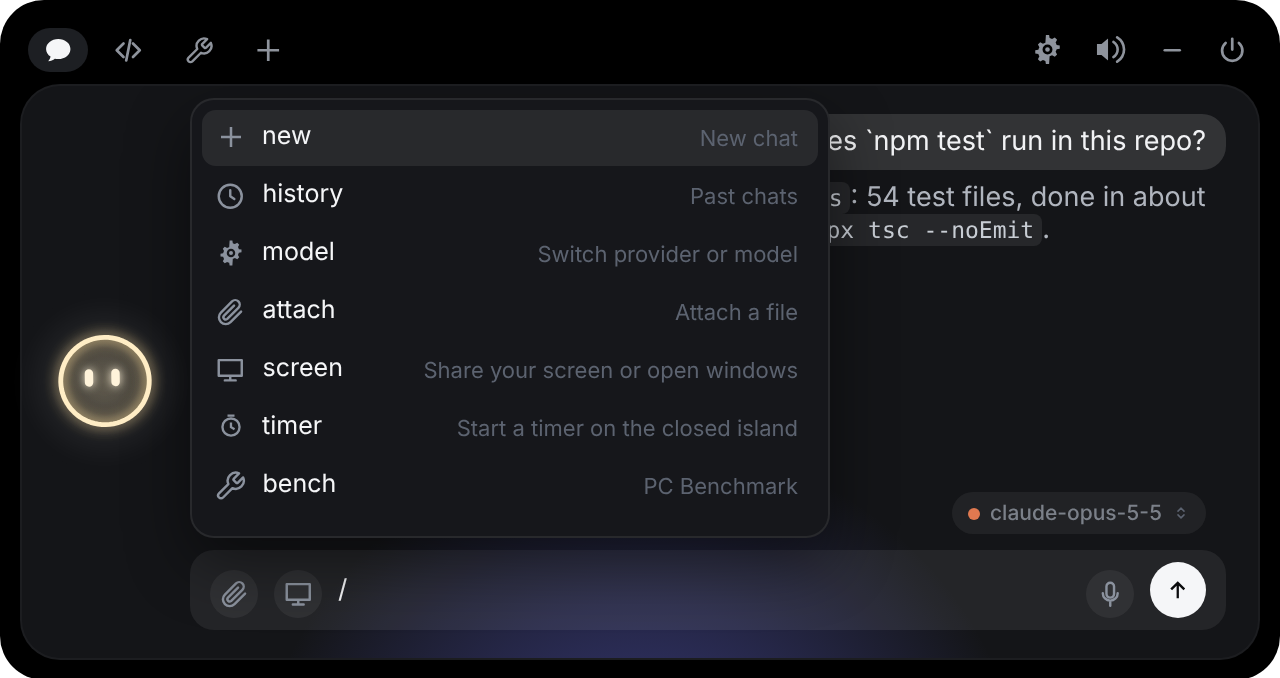
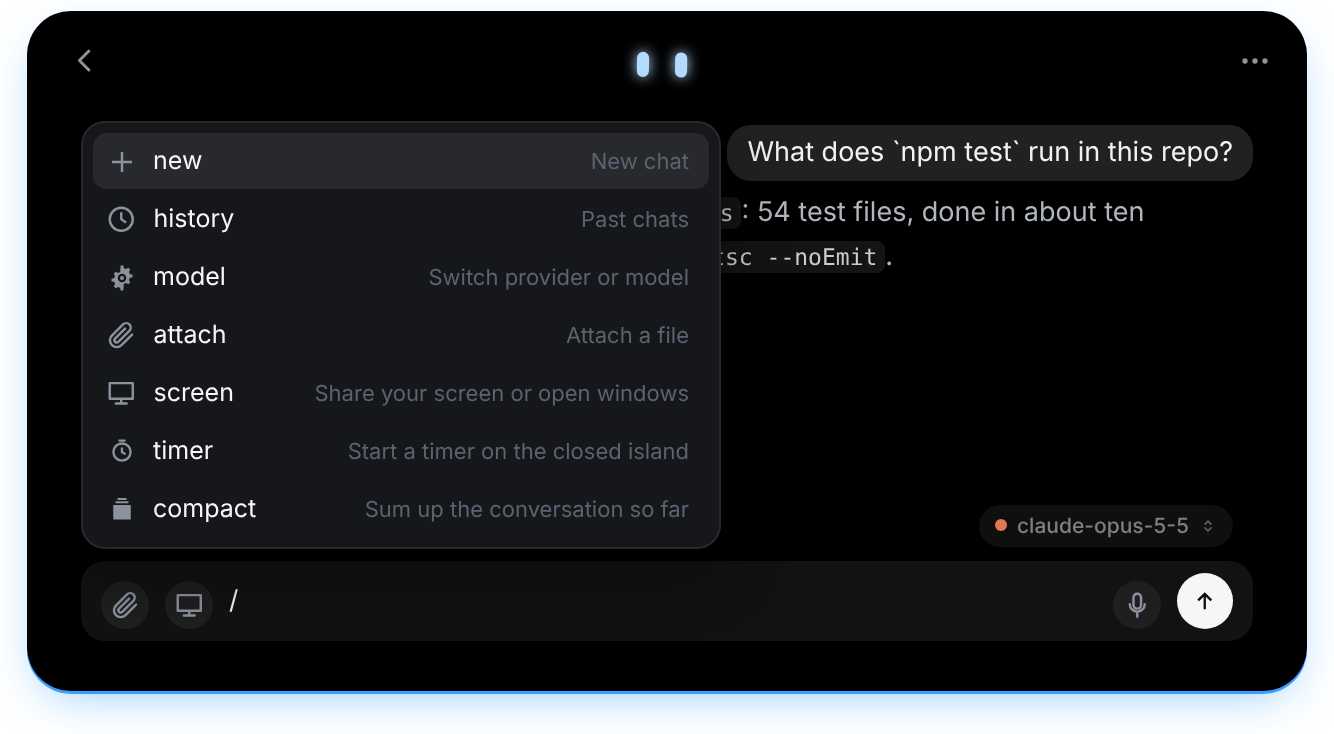
README: the new look's screenshots and features (#151)
* README: the new look's screenshots, features and wording

Claude-Session: https://claude.ai/code/session_01MzT8SPiTDFpQftTYQss36t

* README: the local models' web search (Bing, Bing News, Unsloth Studio)

Claude-Session: https://claude.ai/code/session_01MzT8SPiTDFpQftTYQss36t

---------

diff --git a/README.md b/README.md
@@ -6,14 +6,16 @@
 
 **A tiny friend that lives at the top of your screen on Windows and keeps an eye on your AI coding agent sessions.**
 
-Approve permissions, watch your agents work, drop a file, chat with Claude, Codex or Gemini, give your agents tools of your own, keep an eye on your timers, music, calendar and email — all without leaving what you're doing.
+Approve permissions, watch your agents work, drop a file, chat with Claude, Codex, Gemini or a local model, give your agents tools of your own, keep an eye on your timers, music, calendar and email — all without leaving what you're doing.
 
 [![Version](https://img.shields.io/github/v/release/Rccrd12/Lumo?filter=windows-v*&label=version&color=0A84FF)](https://github.com/Rccrd12/Lumo/releases)
 ![Windows 10/11](https://img.shields.io/badge/Windows-10%2F11-0078D4?logo=windows&logoColor=white)
 ![Tauri 2](https://img.shields.io/badge/Tauri-2-FFC131?logo=tauri&logoColor=black)
 ![Code: MIT](https://img.shields.io/badge/code-MIT-green)
 
-<img src="windows/screenshots/greeting.png" width="640" alt="Lumo lighting up at launch">
+<img src="windows/screenshots/home.png" width="760" alt="Lumo's home: a permission waiting with N and Y, two sessions at work, a timer, the music, the next meeting and the newest email as tiles, the services and the field to the chat">
+
+<img src="windows/screenshots/closed.png" width="326" alt="The closed island: Lumo's eyes, Codex writing main.py and a timer">
 
 </div>
 
@@ -21,74 +23,86 @@ Approve permissions, watch your agents work, drop a file, chat with Claude, Code
 
 The full documentation of the app is in [`windows/README.md`](windows/README.md).
 
-Meet **Lumo**: a small ring of light that peeks out of the top edge of your screen, lights up to say hello, follows your cursor with its eyes, gets annoyed when you poke it, and tells you the moment Claude Code needs you.
+Meet **Lumo**: two bright eyes at the top of your screen. The island they live in peeks out of the edge when you need it, its light running along the border in the colour of what is going on, and it tells you the moment Claude Code needs you. Open it and everything is on one home: what waits for you, the sessions at work, your timers, music, calendar and email, and the field to the chat.
+
+> Lumo 0.18 brought a new look. The one before it, with the ring of light and the tabs, is still there: **Settings → Island → Previous look**.
 
 ## Features
 
-- 🤖 **Claude Code, Codex, Copilot CLI, Muse Code, Antigravity (IDE and CLI), Cursor, OpenCode, Amp, Hermes, Claude Desktop and other agents, live** — see every session in the island: what it reads, edits and runs, step by step. Tag a hook payload with `lumo_agent` to give any agent its own pill (see [`docs/AGENTS.md`](docs/AGENTS.md)). Finished? Lumo does a happy little jump.
-- See what Claude is editing, live: each file modification shows the file name and +N −M counts in the ticker, click it to read the full diff.
-- ✅ **Approve and answer from the island** — permission requests show up with **Allow / Deny** for Claude Code (from any terminal), Codex, Copilot CLI and Muse Code, plus **Allow for this session** to let the same command, file or URL through until that session ends; `AskUserQuestion` prompts show the choices right in the island. Nothing is ever allowed without your click.
-- 🧑💻 **Open terminal** — brings the window a session runs in to the front.
-- 💬 **Chat with Claude, Google AI (Gemini), OpenAI, OpenRouter, or a local model (Ollama, LM Studio, any OpenAI-compatible server)** — click the model name above the chat box to switch provider and model. Cloud providers use your own API key. For Ollama and LM Studio, Settings shows the model in memory, frees it with one click and downloads new ones.
-- 🧠 **Chat with your Claude plan or your ChatGPT account** — pick **Claude Code** or **Codex** above the chat box and the island talks to the CLI you already use, no API key. An action comes up as an Allow / Deny card exactly when the CLI would ask for it, and **the shield** says how much it may do on its own (Ask every time, Auto, Plan only). Antigravity CLI works the same way.
-- 🛠 **Your own tools** — the **Tools** tab lists small programs Lumo and its agents can use for you: a benchmark of your PC, a report from your app, anything you have a script for. **Add a tool** opens the **tool workshop**, a chat where Lumo writes the tool with you (or brings in a script you already have), shows its files and parameters, tries it on your PC and saves it. Claude Code, the island chat and the API providers get them, and a button adds them to Claude Code in the terminal.
-- 🛡 **Lumo's supervisor** — every saved or changed tool is read by a second model, which says in plain words what it really does and whether it looks safe, needs reading first or is dangerous (a dangerous tool is turned off). What a tool declared it needs is enforced: no internet, no files outside its folder, no programs unless it said so. Each call shows its card first.
-- ⌨ **Commands in the chat** — type `/` and a menu opens: `/new`, `/history`, `/model`, `/effort`, `/attach`, `/screen`, `/permissions`, `/timer`, Claude Code's own commands (`/compact`, `/context`, your skills), Antigravity CLI's (`/compact`, `/usage`, `/credits`, `/skills`) and **your tools**, each with its own command: `/pdfcraft merge these two PDFs` tells the AI to use that tool. Only what works with the chosen provider is listed, and Claude Code commands that do nothing outside a terminal are left out. `/context` answers with a small card: how full the context is, what fills it, and the details folded away.
-- 📂 **Chat files** — each chat keeps the files that went with it: what you attached and what Claude Code or Antigravity CLI read, edited or created, to open again with a click.
-- 🗺 **The Plan island** — when an agent (in a terminal or in the island chat) works through a plan, a panel beside the island follows it step by step, with a progress ring; finished plans are kept to look back at.
-- 🎙 **Talk with Gemini Live** — the microphone in the chat box or `Ctrl+Alt+L`: a spoken call with Gemini 3.8 Live (or Extended Thinking) that looks at your screen when it needs to, reads your files and PDFs, opens files and apps, and asks Claude Code or Antigravity CLI for anything else. Uses your Google AI key.
-- ⏱ **Live activities** — the closed island says what's going on: what the AI is doing, your timers, the song playing, the next meeting, a new email; several side by side, centred, with their controls right there. Open the island and a second panel beside it holds **Timer**, **Music**, **Calendar** and **Email**; fold it with **–**, drag it off the island to keep it anywhere (Windows), resize it. Any model in the chat or Gemini Live can set a timer.
-- ✉ **Email** — the Email pill reads your inbox over IMAP (Gmail, Outlook, iCloud, any server, with an app password), read only: a new email peeks out of the closed island within seconds, with **Summarize** and **Draft a reply**. Nothing is moved or marked as read, and with **Settings → General → Security → Email** the AI can also send, answer and forward emails, or manage them (read, star, move, archive, trash), each one only after you click on its card.
-- 🖥 **The chat knows what's open on your PC** — the windows and documents you have open (a PDF, a Word file, a spreadsheet…) go with your question, so "what's this PDF about?" just works. Settings → General → Security turns it off.
-- ➗ **Math in answers** — formulas in LaTeX (`$…$`, `$$…$$`, `\(…\)`, `\[…\]`) are drawn as math: fractions, roots, matrices, sums, vectors.
-- 🖼 **Show the chat your screen** — your open windows or a screenshot, only when you ask; `Ctrl+Alt+P` asks about the screen, `Ctrl+Alt+X` about the selected text, from any app.
-- 📊 **Plan usage** — small pills in the island's header show your 5-hour and weekly Claude plan limits, your Codex limits and your Antigravity CLI quotas. Off by default; Settings → Agents → Plan usage.
-- 📋 **Declare the tools you use** — Settings → Pills & integrations: pick your main tool (VS Code, Cursor, Codex or Antigravity), then up to 4 more agents, chat providers and services.
-- 📎 **Drop a file on the island** — Lumo turns into a box and swallows it, then answers questions about it.
-- 🧲 **An island that docks anywhere** — drag it to the top, bottom, left or right edge, resize it, zoom it.
-- 🔌 **Integrations** — Email (IMAP), Stripe payments, n8n workflows, GitHub (open PRs, reviews requested, CI status, contributions), Vercel deployments, Resend emails, Notion, Cal.com. Each one gets its own little colored Lumo.
-- 👗 **Dress Lumo up** — right-click him for the wardrobe, and pick his look there: a ring of light, a dot, a soft drop or a firefly. He also dresses up for the seasons on his own.
-- ⌨ **Keyboard shortcuts** — open the chat, jump to an alert or a terminal, switch pills, mute or open the wardrobe from anywhere; all customizable in Settings → Shortcuts.
-- 🎭 **A real character** — idle breathing, blinks, eyes on a sphere that follow your mouse, emotes, handcrafted sounds, a greeting on launch.
-- 🫥 **Invisible when idle** — hides away when nothing is running, peeks out when you hover the top edge of the screen.
-- 📅 **Weekly recap** — every Monday Lumo sums up the past week: time coding, sessions, files, lines changed, commands, permissions, top agent and project. Share it as a 1080 × 1920 image with Lumo — project names optional. All local.
-- 🌍 **11 languages** — English, 中文, हिन्दी, Español, العربية, Français, বাংলা, Português, Русский, Bahasa Indonesia, Italiano. Pick one in Settings → General → Language.
-- 🔄 **Updates inside the app** — Lumo says when a newer version is out; **Update now** in Settings downloads it, installs it without any window and opens the new Lumo by itself. The changelog of every version is right there.
-- 🔒 **Private by design** — no telemetry, no account. Keys live in Windows Credential Manager. The app only talks to the services you plug in.
+### Your agents
 
-<p align="center">
-<img src="windows/screenshots/tools.png" width="640" alt="The Tools tab: your own tools, each with its switch, and Add tool">
-</p>
+- 🤖 **Claude Code, Codex, Copilot CLI, Muse Code, Antigravity (IDE and CLI), Cursor, OpenCode, Amp, Hermes, Claude Desktop and other agents, live** — every session on the home: what it reads, edits and runs, step by step, and a green **Done** when it finishes. Tag a hook payload with `lumo_agent` to give any agent its own pill (see [`docs/AGENTS.md`](docs/AGENTS.md)). Each file edit shows its name and +N −M counts; a click opens the full diff.
+- ✅ **Approve and answer from the island** — permission requests come up with two big buttons, **Deny** and **Allow** (or `N` and `Y`), for Claude Code (from any terminal), Codex, Copilot CLI and Muse Code, with **Allow for this session** underneath to let the same command, file or URL through until that session ends. `AskUserQuestion` prompts show the choices right in the island. Nothing is ever allowed without your click.
+- 🗺 **Plans you can read before they start** — when an agent asks to start a plan, its steps show as a numbered list, with **Keep planning** and **Approve the plan** (or write what to change). Once it runs, the **Plan island** follows it step by step with a progress ring, for every provider; finished plans are kept to look back at.
+- 🧑💻 **Open terminal** — brings the window a session runs in to the front.
+- 📊 **Plan usage** — your 5-hour and weekly Claude plan limits, your Codex limits and your Antigravity CLI quotas, as pills on the home and as bars in the chat with when each resets. Off by default; Settings → Agents → Plan usage.
 
 <table>
 <tr>
-<td><img src="windows/screenshots/workshop.png" alt="The tool workshop: a chat where Lumo writes the tool, with its draft, parameters and files beside it, Try and Save tool"></td>
-<td><img src="windows/screenshots/supervisor.png" alt="Lumo's supervisor saying in plain words what a tool does, marked Looks safe"></td>
-</tr>
-<tr>
-<td><img src="windows/screenshots/commands.png" alt="The / menu in the chat: Lumo's commands and a tool of your own"></td>
-<td align="center"><img src="windows/screenshots/plan.png" width="240" alt="The Plan island following Claude Code's plan step by step"></td>
+<td width="50%"><img src="windows/screenshots/approval.png" alt="A Claude Code permission request: Bash npm test, with Deny and Allow as two big buttons and Allow for this session under them"></td>
+<td width="50%"><img src="windows/screenshots/plan-ask.png" alt="Claude Code asking to start a four-step plan in the chat, with Keep planning and Approve the plan"></td>
 </tr>
 </table>
 
-<p align="center">
-<img src="windows/screenshots/activities.png" width="640" alt="The open island with the live activities beside it: a timer, the music playing, the next events and the newest emails">
-</p>
+### The chat
 
-<p align="center">
-<img src="windows/screenshots/compact-activities.png" width="480" alt="The closed island: the next meeting, a timer and the music playing, side by side">
-<br>
-<img src="windows/screenshots/mail.png" width="468" alt="A new email peeking out of the closed island, with Summarize and Draft a reply">
-</p>
+- 💬 **Chat with Claude, Google AI (Gemini), OpenAI, OpenRouter, or a local model (Ollama, LM Studio, Unsloth Studio, any OpenAI-compatible server)** — one field, with **+** for the rest and past chats in the top bar; the model's name beside the field switches provider and model. Cloud providers use your own API key.
+- 🧠 **Chat with your Claude plan or your ChatGPT account** — pick **Claude Code** or **Codex** and the island talks to the CLI you already use, no API key. An action comes up as an Allow / Deny card exactly when the CLI would ask for it, and **the shield** says how much it may do on its own (Ask every time, Auto, Plan only). Antigravity CLI works the same way.
+- 🏠 **Local models that do real work** — tools, pictures, PDFs and reasoning by what the model can do, a web search that works (Bing with Bing News, no key; with Unsloth Studio, its own search when Lumo has its key), and a folder of copies for each chat: the model works on copies of your files, and a copy goes over the original only with your click. Settings shows the model in memory, frees it with one click and downloads new ones.
+- 🐙 **The chat reads your GitHub** — with the GitHub pill set up and Settings → General → Security → **GitHub** on Read only, every provider can read your pull requests with their checks and reviews, issues, repositories, commits and Actions runs. Off until you turn it on.
+- ⌨ **Commands in the chat** — type `/` and a menu opens: `/new`, `/history`, `/model`, `/effort`, `/attach`, `/screen`, `/permissions`, `/timer`, `/compact`, Claude Code's own commands (`/context`, your skills), Antigravity CLI's (`/usage`, `/credits`, `/skills`) and **your tools**, each with its own command. Only what works with the chosen provider is listed.
+- 📏 **The chat's usage as bars** — how full the context is after every answer, what fills it after `/context`, and each limit of your plan.
+- 🖼 **Share what's on your PC** — open windows, screens, browser tabs and folders as pills and tiles; nothing is captured until **Send to the chat**. `Ctrl+Alt+P` asks about the screen, `Ctrl+Alt+X` about the selected text, `Ctrl+Alt+B` about the page in the browser, from any app. The names of the windows and documents you have open go with your question, so "what's this PDF about?" just works (Settings → General → Security turns it off).
+- 📎 **Drop files on the island** — several at once, each with its bar; they fly up to Lumo in the top bar and join the chat.
+- 📂 **Chat files** — each chat keeps the files that went with it: what you attached and what Claude Code, Codex or Antigravity CLI read, edited or created, to open again with a click.
+- ➗ **Math in answers** — formulas in LaTeX (`$…$`, `$$…$$`, `\(…\)`, `\[…\]`) drawn as real math in Latin Modern Math, the face of LaTeX: fractions, roots, matrices, sums, vectors, over 500 symbols.
+- 🎙 **Talk with Gemini Live** — the microphone in the chat field or `Ctrl+Alt+L`: a spoken call with Gemini Live that looks at your screen when it needs to, reads your files and PDFs, opens files and apps, and asks Claude Code or Antigravity CLI for anything else. Uses your Google AI key.
+- 🖱 **Let Claude use the computer** — a glowing screen edge, Claude's own mouse, and every action approved by you.
 
 <table>
 <tr>
-<td><img src="windows/screenshots/approval.png" alt="A Claude Code permission request, with Deny, Allow for this session and Allow"></td>
-<td><img src="windows/screenshots/chat.png" alt="Chatting with Claude from the island"></td>
+<td width="50%"><img src="windows/screenshots/chat.png" alt="Chatting with Claude from the island: one field, the model's name beside it"></td>
+<td width="50%"><img src="windows/screenshots/commands.png" alt="The / menu in the chat: new, history, model, attach, screen, timer, compact"></td>
 </tr>
 <tr>
-<td><img src="windows/screenshots/overview.png" alt="The overview: the focused integration on the left, the other pills on the right"></td>
-<td><img src="windows/screenshots/drop.png" alt="Lumo turned into a box, waiting for a file"></td>
+<td width="50%"><img src="windows/screenshots/share.png" alt="Share with the chat: open windows, screens, tabs and folders as pills and tiles, with Send to the chat"></td>
+<td width="50%"><img src="windows/screenshots/drop.png" alt="The island ready for a file: Drop your files here, PDF, images, code, docs"></td>
+</tr>
+</table>
+
+### Tools, listening and your day
+
+- 🛠 **Your own tools** — small programs Lumo and its agents can use for you: a benchmark of your PC, a report from your app, anything you have a script for. **Add a tool** (right on the home) opens the **tool workshop**, a chat where Lumo writes the tool with you (or brings in a script you already have), tries it on your PC and saves it. Claude Code, Codex, Antigravity CLI, the island chat and the API providers get them.
+- 🛡 **Lumo's supervisor** — every saved or changed tool is read by a second model, which says in plain words what it really does and whether it looks safe, needs reading first or is dangerous (a dangerous tool is turned off). What a tool declared it needs is enforced: no internet, no files outside its folder, no programs unless it said so.
+- 👂 **Listening** — Lumo can keep an ear on a GitHub pull request, a file or a folder, a program, a web page, an email, the calendar, your services, Windows, your agents, a webhook or one of your tools, once or every time, and tell you or have the chat act on it.
+- ⏱ **Live activities** — on the home, as tiles: the timer with its ring round the tile's edge, the music playing with its controls, the next events of your calendar, the newest emails. The closed island says what's going on, several things side by side. Any model in the chat or Gemini Live can set a timer.
+- ✉ **Email** — the Email pill reads your inbox over IMAP (Gmail, Outlook, iCloud, any server, with an app password): a new email peeks out of the closed island within seconds, with **Summarize** and **Draft a reply**. Read only unless you allow more in **Settings → General → Security → Email**, and then each send, reply or move waits for your click on its card.
+- 🔌 **Integrations** — Email (IMAP), Stripe payments, n8n workflows, GitHub (open PRs, reviews requested, CI status, contributions), Vercel deployments, Resend emails, Notion, Cal.com, as pills on the home.
+- 📋 **Declare the tools you use** — Settings → Pills & integrations: pick your main tool (VS Code, Cursor, Codex or Antigravity), then up to 4 more agents, chat providers and services.
+
+<table>
+<tr>
+<td width="50%"><img src="windows/screenshots/tools.png" alt="Your tools: each with what it uses written out, the supervisor's verdict and its switch, and Add a tool"></td>
+<td width="50%"><img src="windows/screenshots/home-plan.png" alt="The home with a plan under way, a timer, the music, the services and the plans' usage"></td>
+</tr>
+</table>
+
+### The island
+
+- 🫥 **Invisible when idle** — hides away when nothing is running, peeks out when you hover the top edge of the screen. Its opening is the island's light coming on.
+- 🧲 **Docks anywhere** — drag it to the top, bottom, left or right edge, resize it, zoom it; the home goes narrower than the other views.
+- 👗 **The wardrobe** — right-click Lumo and pick the light along the island's edge (Full light, Soft light, Line only, Glow only) and Claude's mouse for computer use. In the previous look, Lumo's outfits and styles (a ring of light, a dot, a soft drop, a firefly), dressed for the seasons on his own.
+- ⚙ **Settings in the island** — the search and the sections on top, always in sight while scrolling.
+- ⌨ **Keyboard shortcuts** — open the chat, jump to an alert or a terminal, switch pills, mute or open the wardrobe from anywhere; all customizable in Settings → Shortcuts.
+- 📅 **Weekly recap** — every Monday Lumo sums up the past week: time coding, sessions, files, lines changed, commands, permissions, top agent and project. Share it as a 1080 × 1920 image — project names optional. All local.
+- 🌍 **11 languages** — English, 中文, हिन्दी, Español, العربية, Français, বাংলা, Português, Русский, Bahasa Indonesia, Italiano. Settings → General → Language.
+- 🔄 **Updates inside the app** — Lumo says when a newer version is out; **Update now** downloads it, installs it without any window and opens the new Lumo by itself. **Beta versions** (off unless turned on in Settings → Updates) let you try what's coming before it's released.
+- 🔒 **Private by design** — no telemetry, no account. Keys live in Windows Credential Manager. The app only talks to the services you plug in.
+
+<table>
+<tr>
+<td width="50%"><img src="windows/screenshots/settings.png" alt="Settings inside the island: the search and the sections on top, General below"></td>
+<td width="50%"><img src="windows/screenshots/wardrobe.png" alt="The wardrobe: the island's edge light (Full light, Soft light, Line only, Glow only) and Claude's mouse for computer use"></td>
 </tr>
 </table>
 
@@ -196,9 +210,9 @@ The full list of supported agents, what each one installs and how it answers is 
 |---|---|
 | Move the mouse to the very top-centre of the screen | peeks out and says hi 👋 |
 | Click the small island | opens |
-| Click Lumo | squish + annoyed for a moment |
+| Click Lumo | annoyed for a moment |
 | Right-click Lumo | the wardrobe |
-| Drag a file onto the island | turns into a box and swallows it |
+| Drag files onto the island | it opens, takes them and sends them up to Lumo, into the chat |
 | `Ctrl+Alt+Space` | opens the chat, from any app |
 | `Ctrl+Alt+P` / `Ctrl+Alt+X` | asks about your screen / the selected text |
 | `Ctrl+Alt+L` | talks with Gemini Live |
@@ -224,7 +238,7 @@ Every global shortcut can be changed or turned off in **Settings… → Shortcut
 - Keys live in Windows Credential Manager, never on disk and never in the interface.
 - The only network requests Lumo makes are to the services you configure yourself.
 - Screenshots are taken only when you ask, and shown to you before anything is sent. The names of the windows and documents you have open go with a chat question unless you turn it off in Settings → General → Security, where you also choose whether the AI may read your email and calendar.
-- Email and the calendar are only read: emails stay unread, and nothing is ever sent, moved or deleted.
+- Email and the calendar are only read unless you allow more in Settings → General → Security; then every email sent, moved or deleted waits for your click on its card. GitHub reaches the chat only once you turn it on there.
 - The log and the weekly recap history stay on your machine.
 
 ## Contributing

diff --git a/windows/README.md b/windows/README.md
@@ -15,7 +15,7 @@ Approve Claude Code permissions, watch your session work, drop a file, chat with
 
 </div>
 
-<img src="screenshots/greeting.png" width="640" alt="Lumo lighting up at launch">
+<img src="screenshots/home.png" width="760" alt="Lumo's home: a permission waiting with N and Y, two sessions at work, a timer, the music, the next meeting and the newest email as tiles, the services and the field to the chat">
 
 ---
 
@@ -91,13 +91,24 @@ the exe it runs from.
 
 ## Using it
 
-<img src="screenshots/compact.png" width="292" alt="The compact island">
-<img src="screenshots/compact-activities.png" width="480" alt="The closed island: the next meeting, a timer and the music playing, side by side">
-<img src="screenshots/mail.png" width="468" alt="A new email peeking out of the closed island, with Summarize and Draft a reply">
-<img src="screenshots/overview.png" width="640" alt="The overview: the focused integration on the left, the other pills on the right">
-<img src="screenshots/approval.png" width="640" alt="A Claude Code permission request, with Deny, Allow for this session and Allow">
+<img src="screenshots/closed.png" width="326" alt="The closed island: Lumo's eyes, Codex writing main.py and a timer">
+<img src="screenshots/approval.png" width="640" alt="A Claude Code permission request, with Deny and Allow as two big buttons and Allow for this session under them">
 <img src="screenshots/chat.png" width="640" alt="Chatting with Claude from the island">
-<img src="screenshots/drop.png" width="640" alt="Lumo turned into a box, waiting for a file">
+<img src="screenshots/drop.png" width="640" alt="The island ready for a file: Drop your files here">
+
+Since 0.18 Lumo is two eyes in the open island's top bar and on the closed
+island, and the island's light runs along its edge, in the colour of what is
+going on (picked in the wardrobe). Open it and **the home** holds everything
+that used to sit in tabs: what waits for you (with `N` and `Y` right on it),
+the sessions at work and the chats answering in the background, the plans
+under way, the live activities as tiles (the timer with its ring round the
+tile's edge, the music, the calendar, the email), the services and the plans'
+usage, and the field to the chat. The chat is one field, with **+** for the
+rest and past chats in the top bar; **…** at the top right holds Settings,
+Sounds, Keep the island open, Wardrobe, Hide in the edge of the screen and
+Quit. **Settings → Island → Previous look** brings back the look of 0.17,
+with the ring of light and the tabs, exactly as it was. Most of what follows
+works the same in both looks.
 
 | What you do | What happens |
 |---|---|
@@ -105,7 +116,7 @@ the exe it runs from.
 | Click the small island | It opens |
 | Click Lumo | It gets annoyed for a moment |
 | Rest the pointer on Lumo for two seconds | Hearts |
-| Right-click Lumo | The wardrobe: rest the pointer on an outfit to try it on, click to keep it. **Auto** dresses him for the season (the scarf in winter, the leaf in spring). Next to the outfits, **Lumo's style** picks his look the same way: **Filo**, a ring of light whose colour tells what is going on (the default), **Punto**, a dot of light, **Goccia**, a soft drop, or **Lucciola**, the firefly; also in Settings → Island → Lumo's look |
+| Right-click Lumo | The wardrobe. In the new look it picks the light along the island's edge (**Full light**, **Soft light**, **Line only**, **Glow only**) and Claude's mouse for computer use. In the previous look: rest the pointer on an outfit to try it on, click to keep it. **Auto** dresses him for the season (the scarf in winter, the leaf in spring). Next to the outfits, **Lumo's style** picks his look the same way: **Filo**, a ring of light whose colour tells what is going on (the default), **Punto**, a dot of light, **Goccia**, a soft drop, or **Lucciola**, the firefly; also in Settings → Island → Lumo's look |
 | Drag a file onto the island | Lumo turns into a box, swallows it, then offers to answer questions about it |
 | Click a file in the session ticker | Its diff opens in the island; ↗ opens the file in VS Code, ‹ or `Esc` goes back |
 | Drag the island by its top bar (the closed island from anywhere, or `Alt` + drag anywhere) | Picks it up; let go and it docks on the nearest edge of the screen under the mouse: top, bottom, or upright on the left or right side, centred when dropped near the middle of the edge. **Put the island back in the centre** (tray menu or Settings) brings it home to the top |
@@ -188,7 +199,9 @@ always the mains-power choice.
 
 ### Live activities
 
-<img src="screenshots/activities.png" width="640" alt="The open island with the live activities beside it">
+<img src="screenshots/activities.png" width="640" alt="The previous look: the open island with the live activities beside it">
+
+In the new look they are tiles on the home instead; what follows is the previous look.
 
 Beside the open island (on the top and bottom edges) a second island holds
 what goes on and what can be started: **Timer** (the running ones, 1, 5, 10
@@ -389,7 +402,7 @@ only and No access.
 
 ## Claude Code
 
-<img src="screenshots/settings.png" width="640" alt="The settings window, on Chat: Claude, Antigravity CLI and Codex">
+<img src="screenshots/settings.png" width="640" alt="Settings inside the island: the search and the sections on top, General below">
 
 Open **Settings… → Agents → Claude Code → Install hooks…**. You get the exact diff of what
 will change in `%USERPROFILE%\.claude\settings.json`, the path of the dated backup
